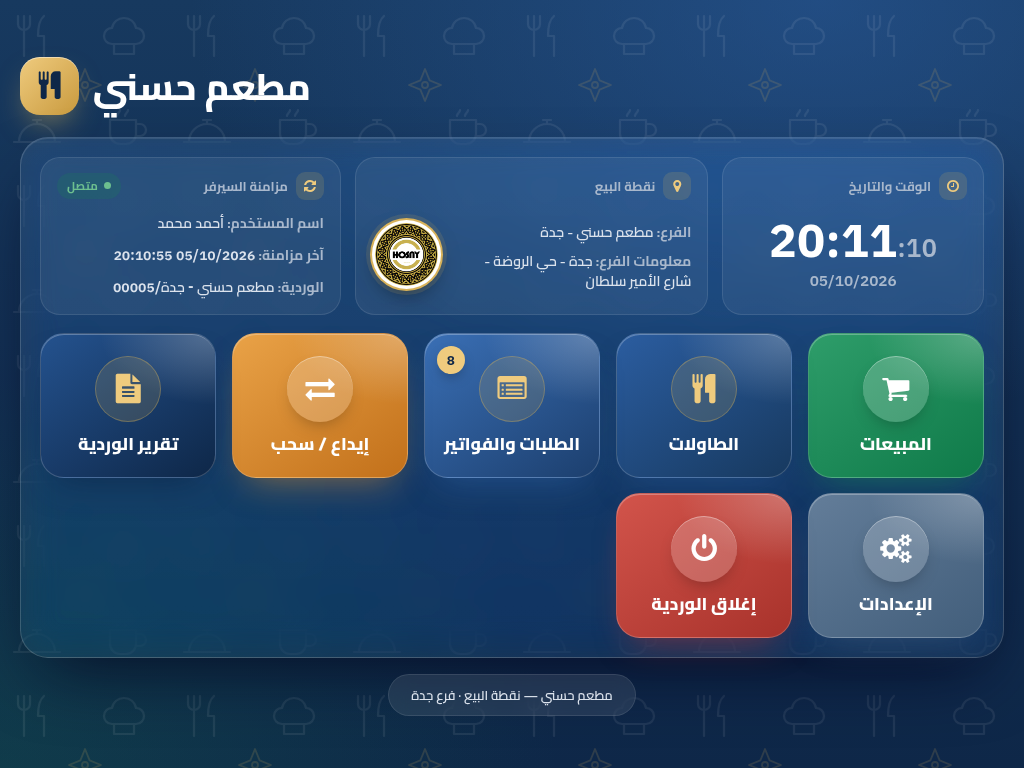
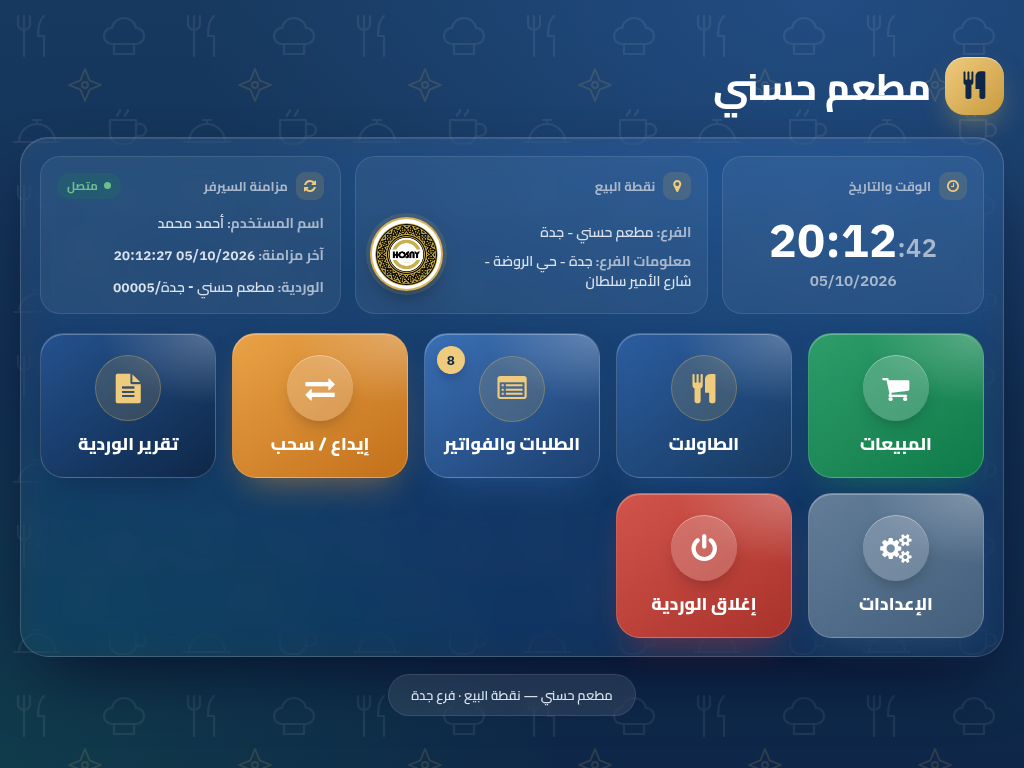
POS home: restaurant title on the right
Align the "مطعم حسني" title to the reading start (right), icon first.

Claude-Session: https://claude.ai/code/session_01Lnz3E3QEWwCq9W3i1o8rQR

diff --git a/addons/hosny_pos_home/static/src/css/home_screen.css b/addons/hosny_pos_home/static/src/css/home_screen.css
@@ -54,7 +54,7 @@
 }
 
 /* ── الاسم ────────────────────────────────────────────────────────── */
-:is(#hs,.pos) .hh-brand { display: flex; align-items: center; justify-content: flex-end; gap: 14px; }
+:is(#hs,.pos) .hh-brand { display: flex; align-items: center; justify-content: flex-start; gap: 14px; }
 :is(#hs,.pos) .hh-brand strong { font-size: clamp(28px, 4.8vh, 44px); font-weight: 800; letter-spacing: 0; }
 :is(#hs,.pos) .hh-brand-icon {
     flex: 0 0 auto; display: grid; place-items: center;
